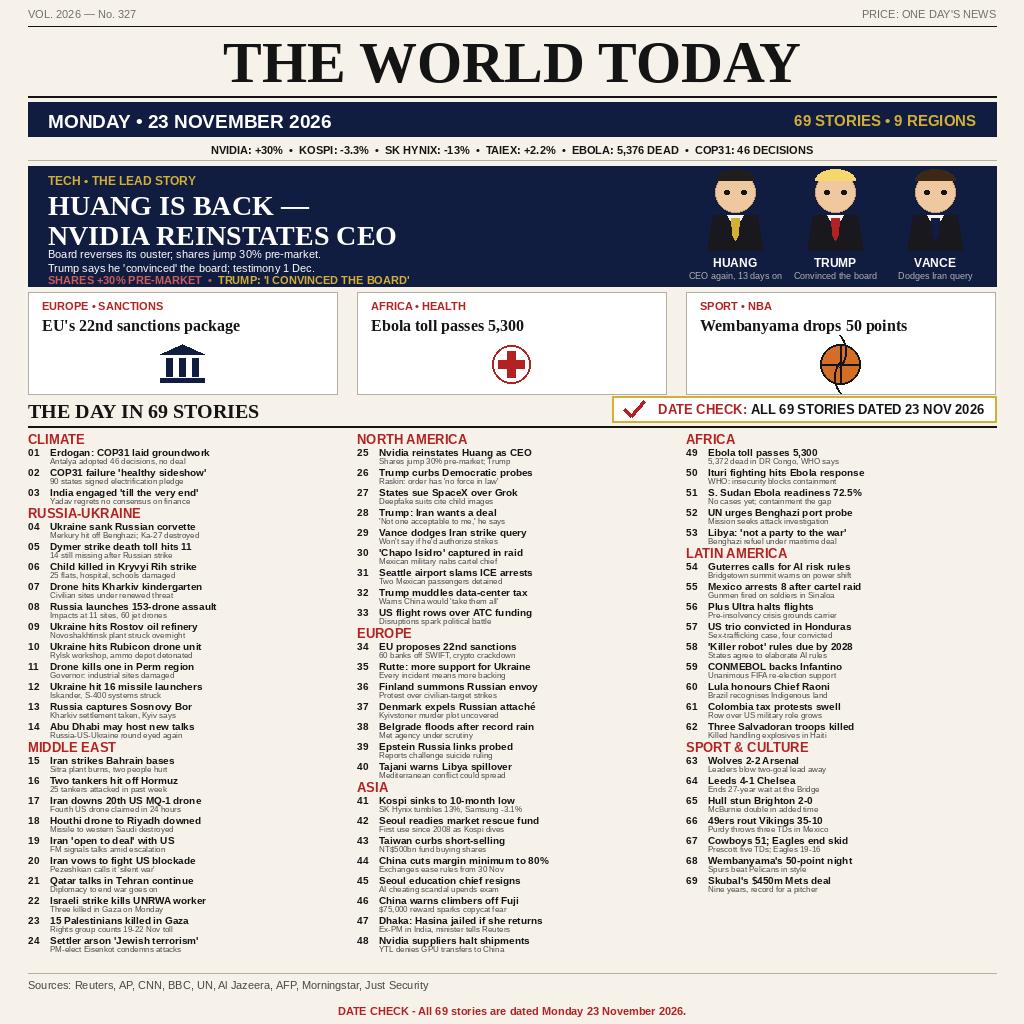
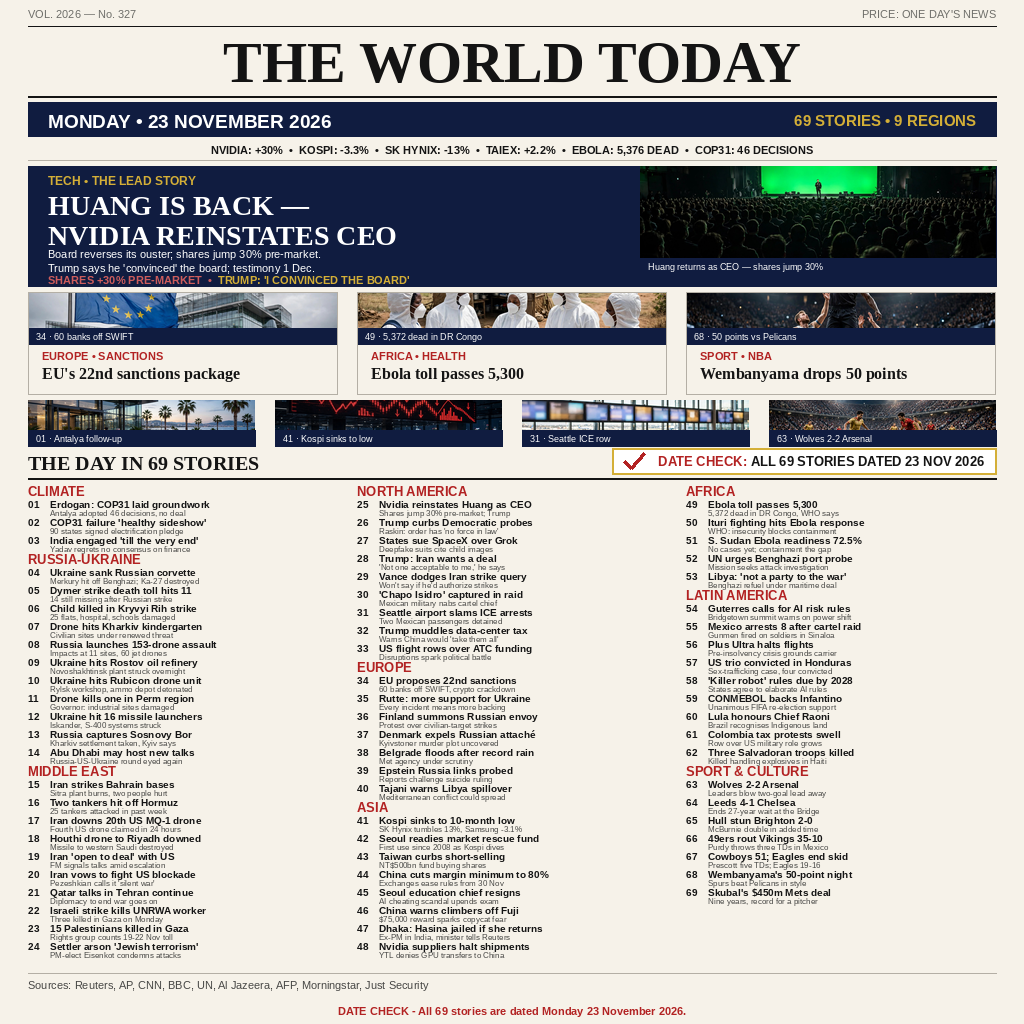
news-image-20261123 v4-content: 69 stories + 8 photos, packed layout

Changed region(s): [[0.0, 0.1562, 1.0, 0.9375]]

diff --git a/main.ts b/main.ts
@@ -5,7 +5,7 @@
 // this folder when that variable is absent. Because the copy is a
 // straight byte transfer, repeated runs always yield the same file.
 // main.ts — entrypoint for news-image-20261123 (Node 22, stdlib only).
-// v3: 69 stories, Nvidia reinstatement lead, FrontPage layout.
+// v4: 69 stories + 8 photos, Nvidia reinstatement lead, FrontPage layout.
 //
 // compose.py draws the front page and commits it as entry.png next to
 // this file. This program copies that exact image to the grader's

diff --git a/compose.py b/compose.py
@@ -1,36 +1,41 @@
 #!/usr/bin/env python3
-"""THE WORLD TODAY front page, Monday 23 November 2026 (v3).
+"""THE WORLD TODAY front page, Monday 23 November 2026 (v4).
 
 A 1024x1024 newspaper front page: masthead, navy date band, a
 one-line statistics strip, a hero lead about Nvidia reinstating
-Jensen Huang as CEO (shares +30% pre-market) with three compact
-cartoon portraits, three feature boxes with drawn icons, and a
-numbered digest of 69 stories from 23 November 2026 sorted into 9
-regions, closed by a DATE CHECK line that states every story on the
-page is dated that day.
+Jensen Huang as CEO (shares +30% pre-market) with a wide keynote
+photo on the right, three feature boxes each topped by a news
+photo, a four-photo strip, and a numbered digest of 69 stories
+from 23 November 2026 sorted into 9 regions, closed by a DATE
+CHECK line that states every story on the page is dated that day.
+Eight photos in total, all generated editorial-style pictures
+stored in photos/.
 
-v3 is a density rebuild of v2 (36 stories, Bahrain lead). The 70th
-research story — Liverpool 4-0 Man Utd — was dropped on purpose:
-it is the same match the news-image-20261122 entry already ran as
-its numbered story #55, feature box and stats box, so it is not a
-distinct 23-Nov development. Everything else from the 70-story
-research file made the page, renumbered 1-69 in reading order.
+v4 adds the photos to v3 (69 stories, Nvidia reinstatement lead,
+packed layout). The 70th research story — Liverpool 4-0 Man Utd —
+was dropped in v3 on purpose: it is the same match the
+news-image-20261122 entry already ran as its numbered story #55,
+feature box and stats box, so it is not a distinct 23-Nov
+development. Everything else from the 70-story research file made
+the page, renumbered 1-69 in reading order.
 
 Layout budget (the lesson of the 20261122 v4 build): the digest
-runs at a 20 px pitch with the detail 10 px below the headline,
-region headers cost 14 px, and the digest starts at y=432, which
-leaves 534 px for the longest column — 24 stories plus 3 headers
-need 522 px, so all 69 fit with 12 px to spare. Headlines stay
+runs at an 18 px pitch with the detail 10 px below the headline,
+region headers cost 14 px, and the digest starts at y=484, which
+leaves 484 px for the longest column — 24 stories plus 3 headers
+need 474 px, so all 69 fit with 10 px to spare. Headlines stay
 under 36 characters and details under 42, so each story fits one
 line each at the digest type sizes (bold 10 / plain 8 across
 287 px); the render asserts both, and fails loudly instead of
-shipping wrapped or overlapping text.
+shipping wrapped or overlapping text. The four-photo strip sits
+between the feature boxes and the digest heading at y=400-446,
+and the hero photo replaces v3's three cartoon portraits.
 
 Only Pillow is used. The picture is fully deterministic: the
-program reads no clock, no random source and no network, so two
-runs write the same bytes. The layout is driven by one FrontPage
-object that owns the canvas, the palette and the fonts; each
-section of the page is one method.
+program reads no clock, no random source and no network, and the
+photos are fixed files, so two runs write the same bytes. The
+layout is driven by one FrontPage object that owns the canvas,
+the palette and the fonts; each section of the page is one method.
 """
 
 import os
@@ -56,12 +61,15 @@ COLUMN_GAP = 20
 COLUMN_X = [MARGIN, MARGIN + COLUMN_W + COLUMN_GAP,
             MARGIN + 2 * (COLUMN_W + COLUMN_GAP)]
 RIGHT_EDGE = PAGE_W - MARGIN
-# Digest geometry (v3): 20 px pitch, detail line 10 px below the
+PHOTO_DIR = os.path.join(os.path.dirname(os.path.abspath(__file__)),
+                         "photos")
+# Digest geometry (v4): 18 px pitch, detail line 10 px below the
 # headline, region header step 14 px. The headline (bold 10) spans
-# about 10 px and the detail (plain 8) about 8 px, so a 2 px gap
-# remains between the detail and the next headline.
-DIGEST_TOP = 432
-DIGEST_PITCH = 20
+# about 10 px and the detail (plain 8) about 8 px, so the detail's
+# ink ends a few pixels before the next headline starts; the visual
+# check confirms no two lines touch.
+DIGEST_TOP = 484
+DIGEST_PITCH = 18
 DIGEST_DETAIL = 10
 DIGEST_HEADER_STEP = 14
 
@@ -285,70 +293,14 @@ STAT_LINE = ("NVIDIA: +30%  •  KOSPI: -3.3%  •  SK HYNIX: -13%  •  "
 
 
 # ------------------------------------------------------------------ pictures
-def draw_portrait(draw, cx, top, hair, tie, name, title):
-    """Draw a compact cartoon leader portrait: head, hair, suit, tie.
-
-    The whole figure ends at top+98 plus one line of 9 px caption
-    text, so with top=172 it stops at y=281, five pixels inside the
-    hero box that ends at 286 — the earlier, taller figure clipped
-    its caption against the hero's bottom edge.
-    """
-    draw.polygon(
-        [(cx - 28, top + 78), (cx + 28, top + 78),
-         (cx + 22, top + 43), (cx - 22, top + 43)],
-        fill=(24, 24, 30),
-    )
-    draw.polygon(
-        [(cx - 8, top + 43), (cx + 8, top + 43), (cx, top + 56)],
-        fill=(245, 245, 245),
-    )
-    draw.polygon(
-        [(cx - 4, top + 46), (cx + 4, top + 46),
-         (cx + 3, top + 63), (cx, top + 68), (cx - 3, top + 63)],
-        fill=tie,
-    )
-    draw.ellipse(
-        [cx - 20, top, cx + 20, top + 40],
-        fill=SKIN, outline=(200, 160, 120),
-    )
-    draw.pieslice([cx - 20, top - 3, cx + 20, top + 20], 180, 360, fill=hair)
-    draw.ellipse([cx - 11, top + 18, cx - 6, top + 22], fill=INK)
-    draw.ellipse([cx + 6, top + 18, cx + 11, top + 22], fill=INK)
-    w = draw.textlength(name, font=bold(12))
-    draw.text((cx - w / 2, top + 84), name, font=bold(12),
-              fill=(255, 255, 255))
-    w = draw.textlength(title, font=plain(9))
-    draw.text((cx - w / 2, top + 98), title, font=plain(9),
-              fill=(180, 180, 180))
+# v4: the hero's three cartoon portraits are gone — the lead story
+# now carries a real keynote photo (see FrontPage.photo in the page
+# section below), so no drawn portraits remain in this file.
 
 
-def draw_bank(draw, cx, top):
-    """Draw a small bank building: pediment, three columns, base."""
-    draw.polygon([(cx - 22, top + 10), (cx + 22, top + 10), (cx, top)],
-                 fill=NAVY)
-    for dx in (-16, -3, 10):
-        draw.rectangle([cx + dx, top + 14, cx + dx + 6, top + 32], fill=NAVY)
-    draw.rectangle([cx - 22, top + 34, cx + 22, top + 38], fill=NAVY)
-
-
-def draw_cross(draw, cx, top):
-    """Draw a medical cross inside a circle for the Ebola feature."""
-    draw.ellipse([cx - 19, top + 1, cx + 19, top + 39],
-                 outline=CRIMSON, width=2)
-    draw.rectangle([cx - 4, top + 7, cx + 4, top + 33], fill=CRIMSON)
-    draw.rectangle([cx - 13, top + 16, cx + 13, top + 24], fill=CRIMSON)
-
-
-def draw_basketball(draw, cx, top):
-    """Draw a simple basketball: orange ball with black seams."""
-    draw.ellipse([cx - 20, top, cx + 20, top + 40],
-                 fill=(210, 110, 40), outline=INK, width=2)
-    draw.line([(cx - 20, top + 20), (cx + 20, top + 20)], fill=INK, width=2)
-    draw.line([(cx, top), (cx, top + 40)], fill=INK, width=2)
-    draw.arc([cx - 20, top - 12, cx + 6, top + 26], 300, 60,
-             fill=INK, width=2)
-    draw.arc([cx - 6, top + 14, cx + 20, top + 52], 120, 240,
-             fill=INK, width=2)
+# v4: the three drawn feature icons (bank, medical cross,
+# basketball) are gone too — each feature box now carries a real
+# news photo on top (see FrontPage.features below).
 
 
 # ------------------------------------------------------------------ page
@@ -373,6 +325,30 @@ class FrontPage:
         for j, line in enumerate(lines):
             self.d.text((x, y + j * leading), line, font=font, fill=fill)
         return len(lines)
+
+    # -- photos -----------------------------------------------------------
+    def photo(self, name, x, y, w, h):
+        """Paste a photo from photos/ into a box, center-cropped to fit."""
+        path = os.path.join(PHOTO_DIR, name)
+        pic = Image.open(path).convert("RGB")
+        tw, th = pic.size
+        target = w / h
+        have = tw / th
+        if have > target:
+            cut = int(th * target)
+            left = (tw - cut) // 2
+            pic = pic.crop((left, 0, left + cut, th))
+        else:
+            cut = int(tw / target)
+            top = (th - cut) // 2
+            pic = pic.crop((0, top, tw, top + cut))
+        pic = pic.resize((w, h), Image.LANCZOS)
+        self.img.paste(pic, (x, y))
+
+    def photo_caption(self, x, y, w, text):
+        """A navy caption strip with white text, laid over a photo."""
+        self.d.rectangle([x, y, x + w, y + 16], fill=NAVY)
+        self.d.text((x + 8, y + 3), text, font=plain(9), fill=WHITE)
 
     def top_rule(self):
         d = self.d
@@ -419,39 +395,56 @@ class FrontPage:
         d.text((MARGIN + 20 + w1, 274),
                "TRUMP: 'I CONVINCED THE BOARD'",
                font=bold(11), fill=GOLD)
-        # Three portraits on the right (all 23 Nov people).
-        draw_portrait(d, 735, 172, (30, 30, 30), GOLD,
-                      "HUANG", "CEO again, 13 days on")
-        draw_portrait(d, 835, 172, (245, 215, 110), CRIMSON,
-                      "TRUMP", "Convinced the board")
-        draw_portrait(d, 935, 172, (60, 40, 20), NAVY,
-                      "VANCE", "Dodges Iran query")
+        # Hero photo on the right (v4): the keynote auditorium, with
+        # its caption strip overlaid on the photo's bottom edge.
+        self.photo("01-nvidia.jpg", 640, 166, 356, 108)
+        self.photo_caption(640, 258, 356,
+                           "Huang returns as CEO — shares jump 30%")
 
     def features(self):
         d = self.d
         feat_y, feat_h = 292, 102
         specs = [
-            (COLUMN_X[0], "EUROPE • SANCTIONS",
-             "EU's 22nd sanctions package", draw_bank),
-            (COLUMN_X[1], "AFRICA • HEALTH",
-             "Ebola toll passes 5,300", draw_cross),
-            (COLUMN_X[2], "SPORT • NBA",
-             "Wembanyama drops 50 points", draw_basketball),
+            (COLUMN_X[0], "02-eu-sanctions.jpg", "EUROPE • SANCTIONS",
+             "EU's 22nd sanctions package",
+             "34 · 60 banks off SWIFT"),
+            (COLUMN_X[1], "03-ebola.jpg", "AFRICA • HEALTH",
+             "Ebola toll passes 5,300",
+             "49 · 5,372 dead in DR Congo"),
+            (COLUMN_X[2], "04-wembanyama.jpg", "SPORT • NBA",
+             "Wembanyama drops 50 points",
+             "68 · 50 points vs Pelicans"),
         ]
-        for fx, kicker, headline, icon in specs:
+        for fx, photo_name, kicker, headline, caption in specs:
+            self.photo(photo_name, fx, feat_y, COLUMN_W, 52)
+            self.photo_caption(fx, feat_y + 36, COLUMN_W, caption)
             d.rectangle([fx, feat_y, fx + COLUMN_W, feat_y + feat_h],
-                        fill=WHITE, outline=RULE)
-            d.text((fx + 14, feat_y + 8), kicker, font=bold(11),
+                        outline=RULE)
+            d.text((fx + 14, feat_y + 58), kicker, font=bold(11),
                    fill=CRIMSON)
             lines = wrap(d, headline, serif(16), COLUMN_W - 28)
             assert len(lines) == 1, "feature headline wraps: %r" % headline
-            d.text((fx + 14, feat_y + 24), lines[0], font=serif(16),
+            d.text((fx + 14, feat_y + 72), lines[0], font=serif(16),
                    fill=INK)
-            icon(d, fx + COLUMN_W // 2, feat_y + 52)
+
+    def photo_strip(self):
+        d = self.d
+        strip_y, strip_h = 400, 46
+        strip_w = (RIGHT_EDGE - MARGIN - 3 * COLUMN_GAP) // 4
+        specs = [
+            ("05-cop31.jpg", "01 · Antalya follow-up"),
+            ("06-kospi.jpg", "41 · Kospi sinks to low"),
+            ("07-seattle.jpg", "31 · Seattle ICE row"),
+            ("08-wolves.jpg", "63 · Wolves 2-2 Arsenal"),
+        ]
+        for i, (photo_name, caption) in enumerate(specs):
+            x = MARGIN + i * (strip_w + COLUMN_GAP)
+            self.photo(photo_name, x, strip_y, strip_w, strip_h)
+            self.photo_caption(x, strip_y + 30, strip_w, caption)
 
     def stories_heading(self):
         d = self.d
-        d.text((MARGIN, 400), "THE DAY IN 69 STORIES",
+        d.text((MARGIN, 452), "THE DAY IN 69 STORIES",
                font=serif(20), fill=INK)
         check_font = bold(13)
         part_a = "DATE CHECK: "
@@ -460,16 +453,16 @@ class FrontPage:
         wb = d.textlength(part_b, font=check_font)
         box_w = 12 + 26 + 8 + wa + wb + 12
         box_x0 = RIGHT_EDGE - box_w
-        d.rectangle([box_x0, 396, RIGHT_EDGE, 422],
+        d.rectangle([box_x0, 448, RIGHT_EDGE, 474],
                     fill=WHITE, outline=GOLD, width=2)
         tick_x = box_x0 + 12
-        tick_y = 409
+        tick_y = 461
         d.line([(tick_x, tick_y), (tick_x + 7, tick_y + 7),
                 (tick_x + 20, tick_y - 8)], fill=CRIMSON, width=3)
         tx = box_x0 + 12 + 26 + 8
-        d.text((tx, 402), part_a, font=check_font, fill=CRIMSON)
-        d.text((tx + wa, 402), part_b, font=check_font, fill=INK)
-        d.line([(MARGIN, 426), (RIGHT_EDGE, 426)], fill=INK, width=2)
+        d.text((tx, 454), part_a, font=check_font, fill=CRIMSON)
+        d.text((tx + wa, 454), part_b, font=check_font, fill=INK)
+        d.line([(MARGIN, 478), (RIGHT_EDGE, 478)], fill=INK, width=2)
 
     def story_columns(self):
         d = self.d
@@ -516,6 +509,7 @@ class FrontPage:
         self.stats()
         self.hero()
         self.features()
+        self.photo_strip()
         self.stories_heading()
         self.story_columns()
         self.footer()

diff --git a/README.md b/README.md
@@ -1,4 +1,4 @@
-# news-image-20261123 — The World Today, Monday 23 November 2026 (v3)
+# news-image-20261123 — The World Today, Monday 23 November 2026 (v4)
 
 A newspaper front page summing up the world's news of Monday 23
 November 2026 in one 1024x1024 image: Nvidia reinstating Jensen
@@ -6,6 +6,28 @@ Huang as CEO (shares +30% pre-market), the EU's 22nd sanctions
 package, the Ebola toll passing 5,300, and Wembanyama's 50-point
 night — plus 65 more stories, all dated Monday 23 November 2026,
 across 9 regions. 69 stories in total, nearly double v2's 36.
+Eight generated editorial photos illustrate the lead and seven
+other stories on the page.
+
+## What changed in v4
+
+v3 was the density rebuild; v4 adds the photos, on the 20261122
+v4 pattern (hero photo, three feature photos, four-photo strip):
+
+1. **Hero photo.** The keynote auditorium (story 25) replaces
+   v3's three cartoon portraits of Huang, Trump and Vance, with a
+   caption strip overlaid on the photo's bottom edge.
+2. **Feature photos.** The EU sanctions bank, the Ebola cross and
+   the basketball icons are gone — each feature box now carries a
+   real photo (stories 34, 49, 68) with a story-numbered caption.
+3. **Photo strip.** Four more photos sit between the feature boxes
+   and the digest heading: Antalya follow-up (01), Kospi sinks
+   (41), Seattle ICE row (31) and Wolves 2-2 Arsenal (63).
+4. **Tighter digest.** The strip costs 52 px of vertical room, so
+   the digest pitch drops from 20 px to 18 px (detail line still
+   10 px below the headline) and the digest starts at y=484 — the
+   longest column still fits with 10 px to spare, and the visual
+   check confirms no two digest lines touch.
 
 ## What changed in v3
 
